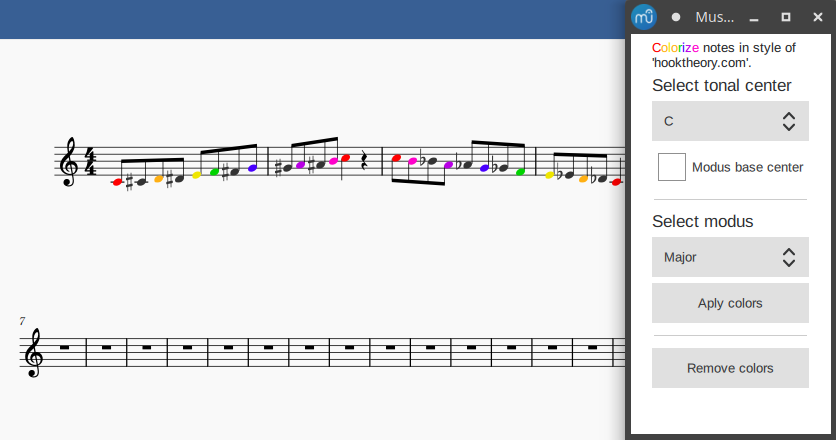
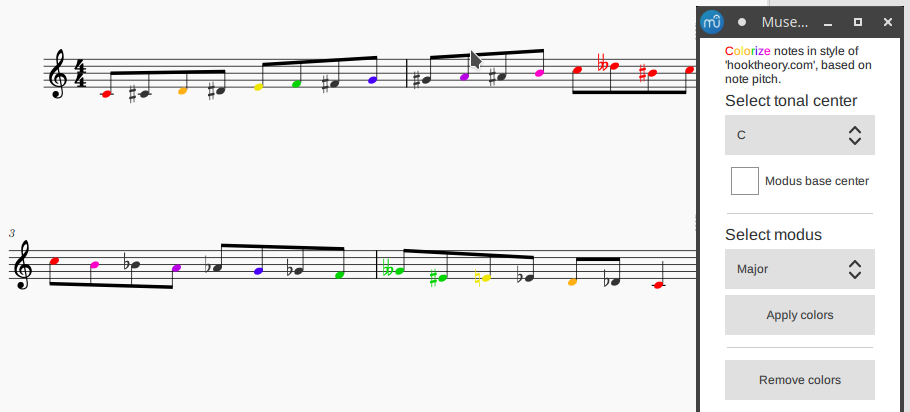
Update screenshot, rename colornotes_hook.qml to colornotes_hook_pitch.qml, update description.

diff --git a/colornotes_hook_pitch.qml b/colornotes_hook_pitch.qml
@@ -40,7 +40,7 @@ MuseScore {
     property var tonalCenter : tonalBox.currentIndex
     
     // Apply the given function to all notes (elements with pitch) in selection
-    // or, if nothing is selected, in the entire score
+    // or, if nothing, or just single element is selected, in the entire score
 
     function applyToNotesInSelection(func, restore) {
         if (!curScore) 
@@ -96,7 +96,7 @@ MuseScore {
             width: column.width
             topPadding : 6
             wrapMode : Text.WordWrap
-            text : qsTr("<font color=\"#ff0000\">C</font><font color=\"#ffb014\">o</font><font color=\"#efe600\">l</font><font color=\"#ffb014\">o</font><font color=\"#00d300\">r</font><font color=\"#4800ff\">i</font><font color=\"#b800e5\">z</font><font color=\"#ff00cb\">e</font> notes in style of 'hooktheory.com'.")
+            text : qsTr("<font color=\"#ff0000\">C</font><font color=\"#ffb014\">o</font><font color=\"#efe600\">l</font><font color=\"#ffb014\">o</font><font color=\"#00d300\">r</font><font color=\"#4800ff\">i</font><font color=\"#b800e5\">z</font><font color=\"#ff00cb\">e</font> notes in style of 'hooktheory.com', based on note pitch.")
             anchors.horizontalCenter : parent.horizontalCenter
         }
         
